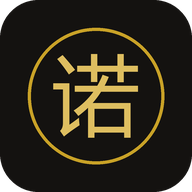
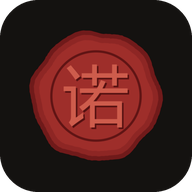
换图标：火漆印
- 深底上盖一枚暗红火漆，边缘不规则、内圈压印、中间暗刻「诺」
- 四个尺寸（192 / 512 / maskable 512 / iOS 180）重新生成
- sw 缓存 v26，确保手机拿到新图标

diff --git a/sw.js b/sw.js
@@ -1,6 +1,6 @@
 // 网络优先：每次先取服务器，拿到就顺手更新缓存；断网才回落到缓存。
 // 之前的缓存优先会让旧 CSS/JS 一直留在手机上——改一次代码，手机上永远看不到。
-const CACHE = 'norn-v25';
+const CACHE = 'norn-v26';
 const ASSETS = ['./', './index.html', './style.css', './app.js', './format.js', './views.js', './llm.js', './store.js', './sync.js',
   './engine/clock.js', './engine/rng.js', './engine/money.js', './engine/economy.js', './engine/ledger.js',
   './engine/progress.js', './engine/items.js', './engine/assets.js', './engine/reputation.js',
